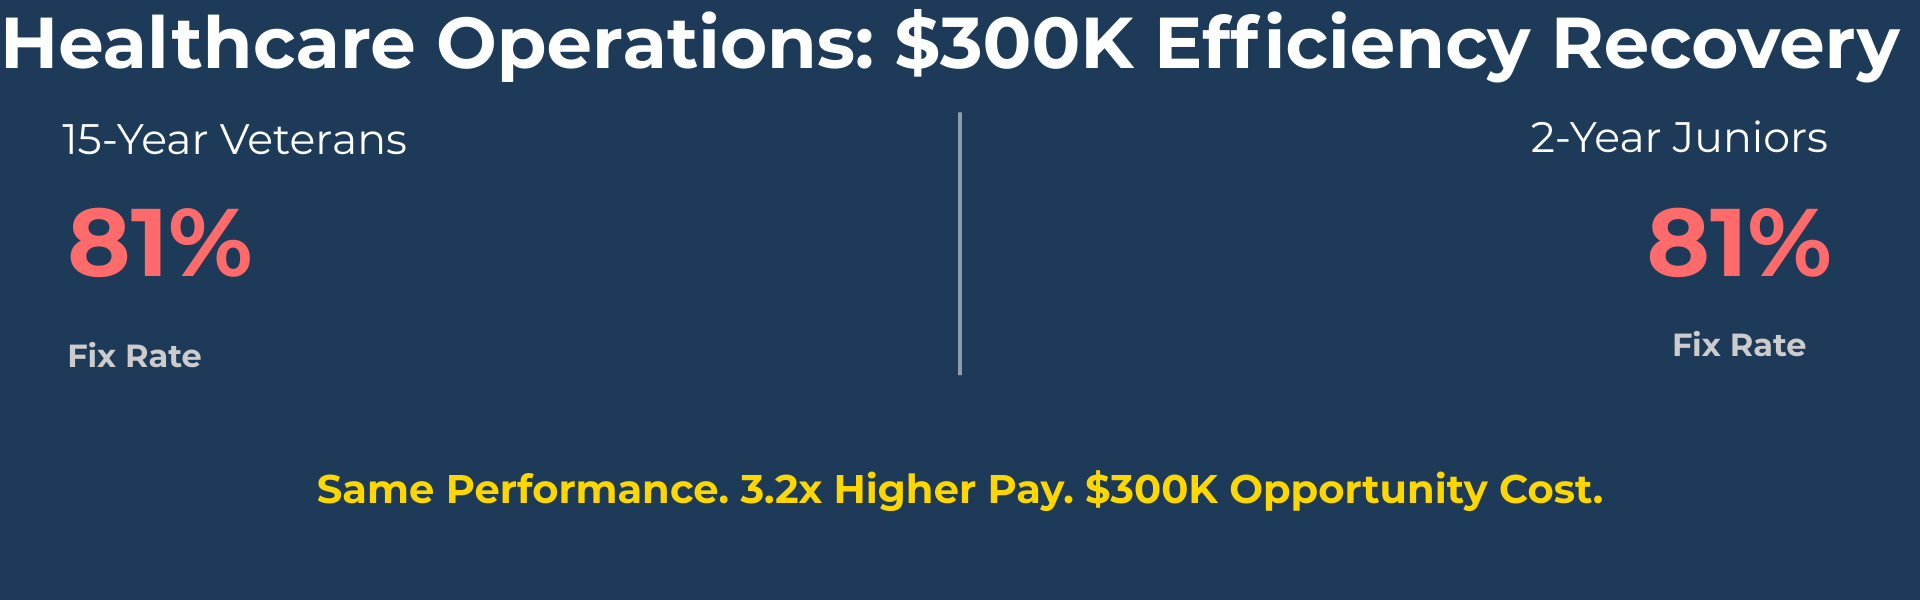
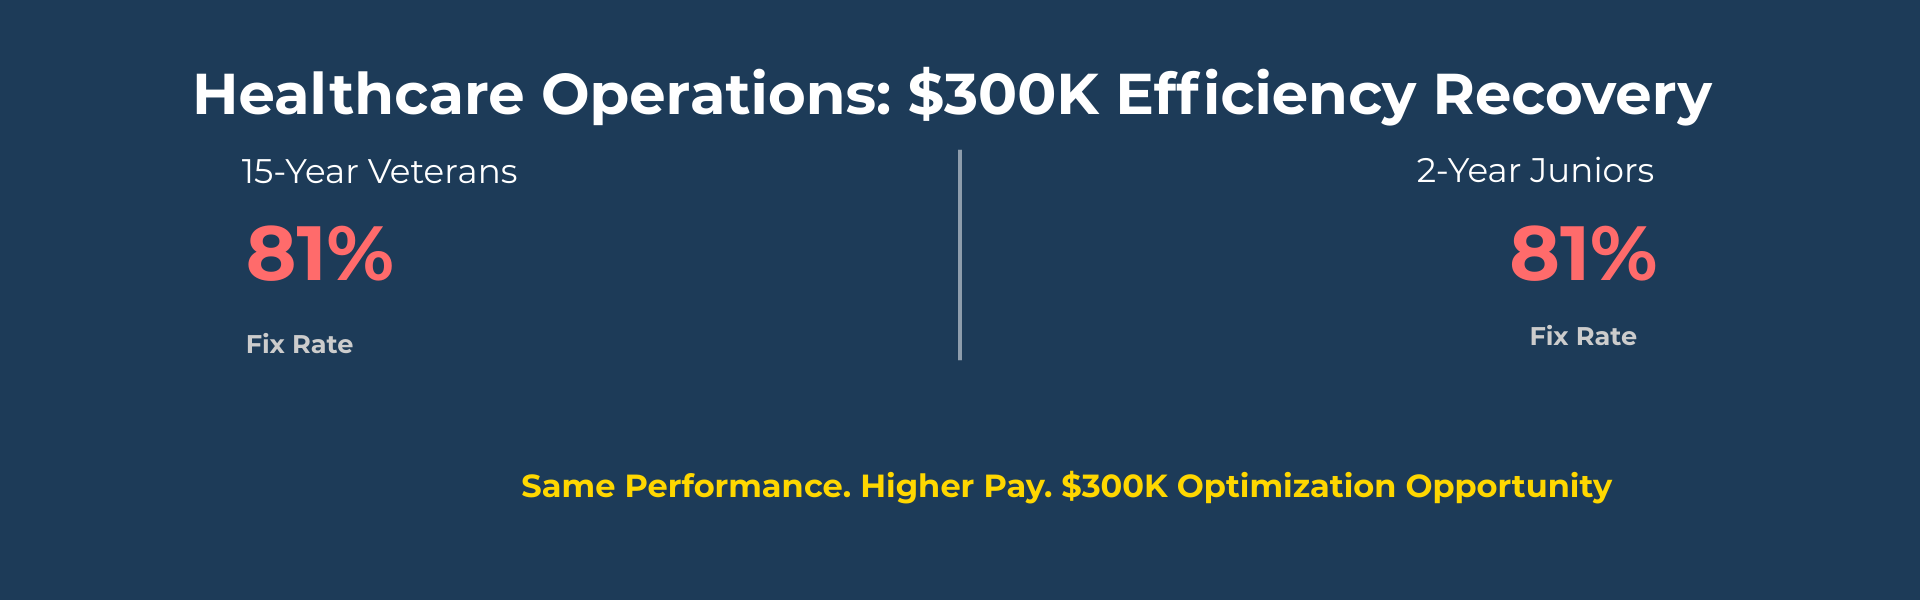
Updated files and index.html

diff --git a/index.html b/index.html
@@ -51,79 +51,132 @@ I find money hiding in data. Recent work: $300K in payroll inefficiencies uncove
 		<div id="main">
 
     <article class="post featured">
-        <header class="major">
-            <h2>
-                <a href="https://github.com/timothyakintayo/Healthcare-Operations-300K-Efficiency-Recovery" target="_blank" rel="noopener noreferrer">
-                    Healthcare Operations: $300K Efficiency Recovery<br />
-                </a>
-            </h2>
-            <p>Audited a $1.67M annual bonus program for a global healthcare equipment provider and discovered the "Tenure Trap": 15-year Master Technicians performing identically to 2-year Juniors (81% fix rate) while commanding 3.2x higher compensation. Identified $300K in annual cost optimization, exposed critical Year-6 asset failures driving 240+ repeat service calls, and built a dynamic forecasting tool that eliminated weeks of static Excel modeling. This project challenged HR policy and gave leadership the data to choose between comfortable assumptions and uncomfortable truths.</p>
-        </header>
-        <a href="https://github.com/timothyakintayo/Healthcare-Operations-300K-Efficiency-Recovery" class="image main" target="_blank" rel="noopener noreferrer">
-            <img src="images/healthcare_operations.png" alt="Healthcare Operations $300K Efficiency Recovery" style="width: 100%; max-height: 400px; height: auto; object-fit: cover; object-position: center; margin-bottom: 2em;" />
-        </a>
-        <ul class="actions special">
-            <li><a href="https://github.com/timothyakintayo/Healthcare-Operations-300K-Efficiency-Recovery" class="button large" target="_blank" rel="noopener noreferrer">View Project</a></li>
-        </ul>
-    </article>
+    <header class="major">
+        <h2>
+            <a href="https://github.com/timothyakintayo/Healthcare-Operations-300K-Efficiency-Recovery"
+               target="_blank"
+               rel="noopener noreferrer">
+                Healthcare Operations: $300K Efficiency Recovery<br />
+            </a>
+        </h2>
+        <p>Analyzed $1.67M annual bonus program for global healthcare equipment provider and discovered the "Tenure Trap": 15-year Master Technicians performing identically to 2-year Juniors (both 81% fix rate) while receiving significantly higher tenure-based compensation. Identified $300K annual cost optimization opportunity and exposed critical Year-6 asset lifecycle vulnerability (87% → 83% fix rate drop). Built dynamic forecasting tool using DAX parameter tables, enabling executives to test compensation scenarios in real-time and eliminating weeks of static Excel modeling. Mapped MRI equipment as primary downtime driver, redirecting recovered savings toward targeted technical training programs.</p>
+    </header>
+    <a href="https://github.com/timothyakintayo/Healthcare-Operations-300K-Efficiency-Recovery" 
+       class="image main" 
+       target="_blank" 
+       rel="noopener noreferrer">
+        <img src="images/healthcare_operations.png" 
+             alt="Healthcare Operations $300K Efficiency Recovery" 
+             style="width: 100%; max-height: 400px; height: auto; object-fit: cover; object-position: center; margin-bottom: 2em;" />
+    </a>
+    <ul class="actions special">
+        <li><a href="https://github.com/timothyakintayo/Healthcare-Operations-300K-Efficiency-Recovery" 
+               class="button large" 
+               target="_blank" 
+               rel="noopener noreferrer">View Project</a></li>
+    </ul>
+</article>
 
     <section class="posts">
 
         <article>
-            <header>
-                <h2><a href="https://github.com/timothyakintayo/312M-Payroll-Audit-The-7-Year-Trap" target="_blank" rel="noopener noreferrer">
-                    $312M Payroll Audit: The 7-Year Trap
-                </a></h2>
-            </header>
-            <a href="https://github.com/timothyakintayo/312M-Payroll-Audit-The-7-Year-Trap" class="image fit" target="_blank" rel="noopener noreferrer">
-                <img src="images/pay_equity.png" alt="Pay Equity Analysis Dashboard" style="width: 100%; height: auto; object-fit: cover;" />
-            </a>
-            <p>Analyzed a 2,000-person European workforce and uncovered systemic retention failures: found employees stuck at Entry Level for 7+ years, an IT Director that earned $414K (top 3 earner) with a performance rating of 2/5, and 40 employees paid below market midpoint (flight risks). Built a Power BI model that exposed retention risks and a "pay-for-performance" system that was rewarding for tenure, not performance. Compliance achieved, but equity requires uncomfortable choices.</p>
-            <ul class="actions special">
-                <li><a href="https://github.com/timothyakintayo/312M-Payroll-Audit-The-7-Year-Trap" class="button" target="_blank" rel="noopener noreferrer">View Project</a></li>
-            </ul>
-        </article>
+    <header>
+        <h2><a href="https://github.com/timothyakintayo/312M-Payroll-Audit-The-7-Year-Trap" 
+               target="_blank" 
+               rel="noopener noreferrer">
+            $312M Payroll Analysis: The 7-Year Entry Level Trap
+        </a></h2>
+    </header>
+    <a href="https://github.com/timothyakintayo/312M-Payroll-Audit-The-7-Year-Trap" 
+       class="image fit" 
+       target="_blank" 
+       rel="noopener noreferrer">
+        <img src="images/pay_equity.png" 
+             alt="Pay Equity Analysis Dashboard" 
+             style="width: 100%; height: auto; object-fit: cover;" />
+    </a>
+    <p>Analyzed $312M payroll across 2,000 employees and uncovered systemic compensation failures: employees trapped at Entry Level for 7+ years, a high-earning IT Director with performance rating of 2/5, and 40 employees (18 high-performers) paid below 80% market rate. Built Power BI model using nested DAX iterations to compare compensation within job levels, validating 1.92% gender pay gap (below 5% EU threshold). Exposed fundamental disconnect between stated "pay-for-performance" culture and actual compensation patterns. EU compliant but equity requires uncomfortable leadership decisions beyond regulatory checkboxes.</p>
+    <ul class="actions special">
+        <li><a href="https://github.com/timothyakintayo/312M-Payroll-Audit-The-7-Year-Trap" 
+               class="button" 
+               target="_blank" 
+               rel="noopener noreferrer">View Project</a></li>
+    </ul>
+</article>
 
         <article>
-            <header>
-                <h2><a href="https://github.com/timothyakintayo/Justus-Cafe-Sales-Analysis" target="_blank" rel="noopener noreferrer">Justus Café Sales Analysis</a></h2>
-            </header>
-            <a href="https://github.com/timothyakintayo/Justus-Cafe-Sales-Analysis" class="image fit" target="_blank" rel="noopener noreferrer">
-                <img src="images/cafe.jpg" alt="Justus Café Sales Analysis Dashboard" style="width: 100%; height: auto; object-fit: cover;" />
-            </a>
-            <p>Analyzed 10,000 café transactions and identified $2,400-3,200/month in revenue recovery: cash bottlenecks losing 20-30 Friday customers, 50% of patrons under-spending at $4-12, and untapped combo upselling potential. Built Excel dashboard quantifying payment friction costs and dine-in premium (30% higher spend).</p>
-            <ul class="actions special">
-                <li><a href="https://github.com/timothyakintayo/Justus-Cafe-Sales-Analysis" class="button" target="_blank" rel="noopener noreferrer">View Project</a></li>
-            </ul>
-        </article>
+    <header>
+        <h2><a href="https://github.com/timothyakintayo/Justus-Cafe-Payment-Friction-Upselling-Analysis" 
+               target="_blank" 
+               rel="noopener noreferrer">
+            Justus Café: Payment Friction & Upselling Analysis
+        </a></h2>
+    </header>
+    <a href="https://github.com/timothyakintayo/Justus-Cafe-Payment-Friction-Upselling-Analysis" 
+       class="image fit" 
+       target="_blank" 
+       rel="noopener noreferrer">
+        <img src="images/cafe.jpg" 
+             alt="Justus Café Sales Analysis" 
+             style="width: 100%; height: auto; object-fit: cover;" />
+    </a>
+    <p>Analyzed 10,000 café transactions revealing cash payment friction (33% of high-value purchases during peak hours) and upselling gaps (50% of customers spending only $4-$12). Built Excel dashboard using Power Query, Power Pivot, and DAX to identify payment behavior patterns, seasonal trends, and channel preferences. Delivered actionable recommendations requiring pilot testing to quantify actual revenue impact.</p>
+    <ul class="actions special">
+        <li><a href="https://github.com/timothyakintayo/Justus-Cafe-Payment-Friction-Upselling-Analysis" 
+               class="button" 
+               target="_blank" 
+               rel="noopener noreferrer">View Project</a></li>
+    </ul>
+</article>
+        <article>
+    <header>
+        <h2><a href="https://github.com/timothyakintayo/Procurement-Automation-Eliminating-Paper-Based-Approval-Bottlenecks" 
+               target="_blank" 
+               rel="noopener noreferrer">
+            Procurement Automation: Zero-Cost Approval System
+        </a></h2>
+    </header>
+    <a href="https://github.com/timothyakintayo/Procurement-Automation-Eliminating-Paper-Based-Approval-Bottlenecks" 
+       class="image fit" 
+       target="_blank" 
+       rel="noopener noreferrer">
+        <img src="images/procurement.jpg" 
+             alt="Procurement Automation System" 
+             style="width: 100%; height: auto; object-fit: cover;" />
+    </a>
+    <p>Built Purchase Request & Approval System using Microsoft Power Platform (PowerApps, Power Automate, SharePoint), eliminating paper-based processes and approval bottlenecks through first-to-respond logic. Solved technical challenges including Office 365 user integration and group email notification delivery. Avoided typical $15K-50K/year ERP costs while providing mobile access, real-time tracking, and complete audit trails using existing Microsoft 365 licenses.</p>
+    <ul class="actions special">
+        <li><a href="https://github.com/timothyakintayo/Procurement-Automation-Eliminating-Paper-Based-Approval-Bottlenecks" 
+               class="button" 
+               target="_blank" 
+               rel="noopener noreferrer">View Project</a></li>
+    </ul>
+</article>
 
         <article>
-            <header>
-                <h2><a href="https://github.com/timothyakintayo/Procurement_Automation" target="_blank" rel="noopener noreferrer">Procurement Automation System</a></h2>
-            </header>
-            <a href="https://github.com/timothyakintayo/Procurement_Automation" class="image fit" target="_blank" rel="noopener noreferrer">
-                <img src="images/procurement.jpg" alt="Procurement Automation System" style="width: 100%; height: auto; object-fit: cover;" />
-            </a>
-            <p>Built a low-code Purchase Request & Approval System using Microsoft Power Platform to automate procurement workflows. The system improves efficiency, reduces delays, provides real-time notifications, and demonstrates skills in workflow automation, low-code app design, and Microsoft 365 integration.</p>
-            <ul class="actions special">
-                <li><a href="https://github.com/timothyakintayo/Procurement_Automation" class="button" target="_blank" rel="noopener noreferrer">View Project</a></li>
-            </ul>
-        </article>
-
-        <article>
-            <header>
-                <h2><a href="https://github.com/timothyakintayo/nyc-elevator-elt" target="_blank" rel="noopener noreferrer">
-                    NYC Elevator ELT Pipeline
-                </a></h2>
-            </header>
-            <a href="https://github.com/timothyakintayo/nyc-elevator-elt" class="image fit" target="_blank" rel="noopener noreferrer">
-                <img src="images/elevator.jpg" alt="NYC Elevator ELT Pipeline" style="width: 100%; height: auto; object-fit: cover;" />
-            </a>
-            <p>Built an end-to-end ELT pipeline using NYC Open Data API, DuckDB, and Python to analyze elevator complaint patterns. Demonstrated geospatial analytics, automated data engineering workflows, and trend identification across 5 boroughs.</p>
-            <ul class="actions special">
-                <li><a href="https://github.com/timothyakintayo/nyc-elevator-elt" class="button" target="_blank" rel="noopener noreferrer">View Project</a></li>
-            </ul>
-        </article>
+    <header>
+        <h2><a href="https://github.com/timothyakintayo/nyc-elevator-elt" 
+               target="_blank" 
+               rel="noopener noreferrer">
+            NYC Elevator Service Analysis: Finding the Bronx Opportunity
+        </a></h2>
+    </header>
+    <a href="https://github.com/timothyakintayo/nyc-elevator-elt" 
+       class="image fit" 
+       target="_blank" 
+       rel="noopener noreferrer">
+        <img src="images/elevator.jpg" 
+             alt="NYC Elevator Service Optimization" 
+             style="width: 100%; height: auto; object-fit: cover;" />
+    </a>
+    <p>Built production ELT pipeline analyzing 22,507 NYC elevator complaints to identify strategic opportunities for building maintenance companies. Geospatial analysis revealed 41.5% of demand concentrated in the Bronx, with optimal headquarters location at coordinates 40.822139, -73.940240 (57 complaints in single geographic bin). Exposed 52-day average resolution gap and identified HVAC cross-sell potential (19,961 complaints in 2022) through historical trend analysis. Used Python, DuckDB, and SQL to process complaints in under 2 minutes with automated data quality validation.</p>
+    <ul class="actions special">
+        <li><a href="https://github.com/timothyakintayo/nyc-elevator-elt" 
+               class="button" 
+               target="_blank" 
+               rel="noopener noreferrer">View Project</a></li>
+    </ul>
+</article>
 
     </section> </div>
 
